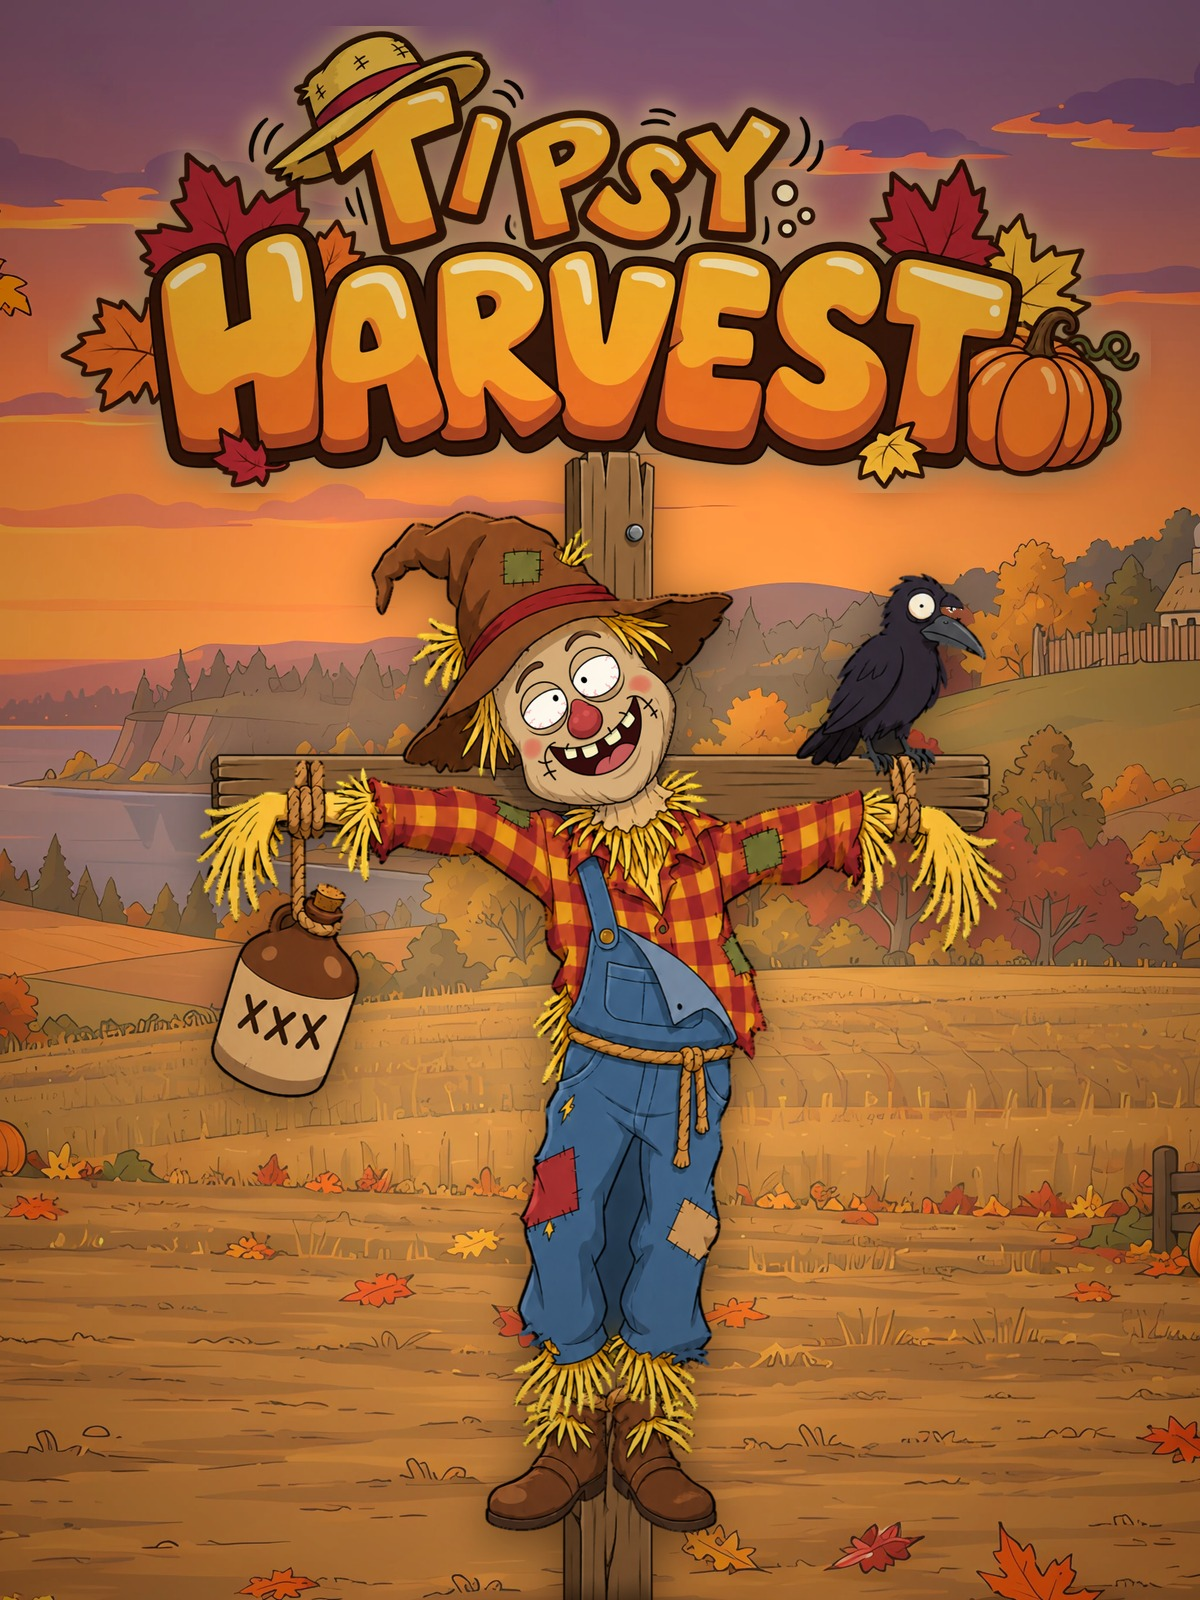
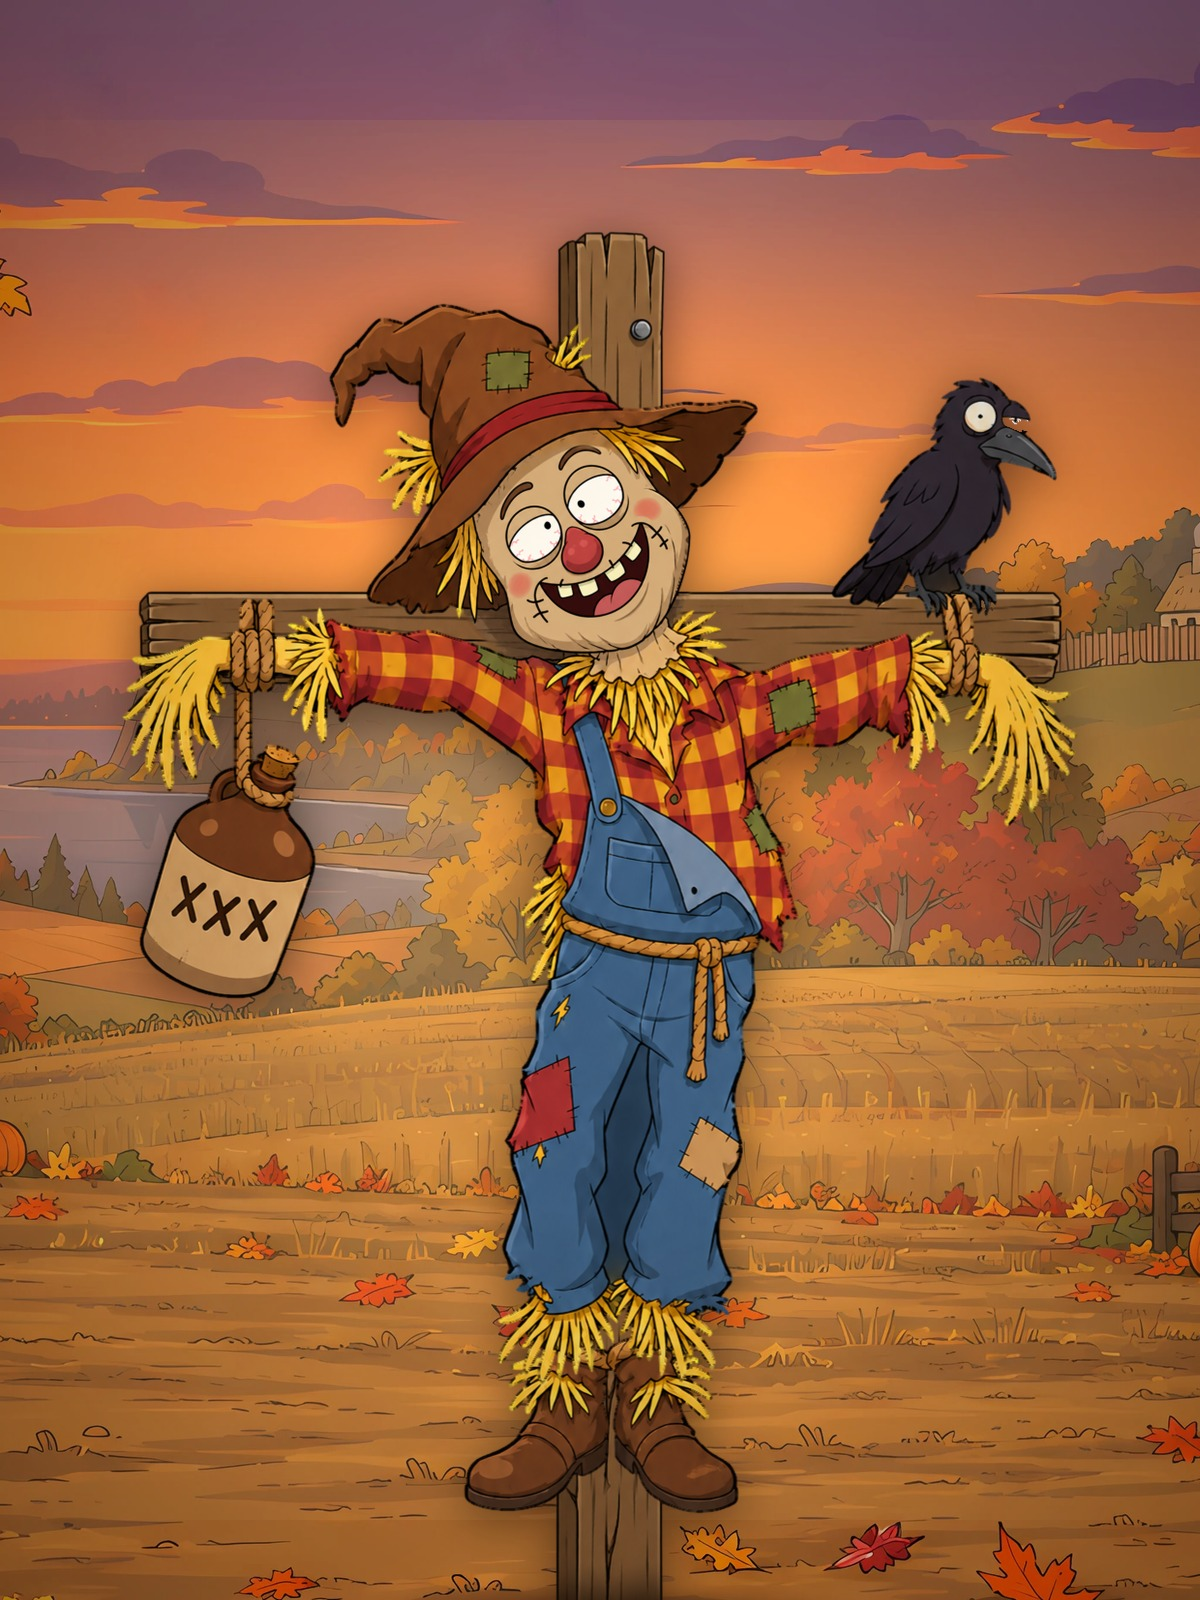
Lobby tile 3:4: scarecrow only, no title

diff --git a/tools/fall/make_media.py b/tools/fall/make_media.py
@@ -126,14 +126,12 @@ def cover():
 
 
 def tile():
-    """The scarecrow and the title only - no symbols (owner, 2026-11-08)."""
+    """The scarecrow only - no title, no symbols (owner, 2026-11-08)."""
     W, H = 1200, 1600
     im = background(W, H, focus_x=.43, focus_y=.42, zoom=1.15)
-    warm_glow(im, 600, 980, 660, .45)
-    word, glow = wordmark(1080)
-    im.alpha_composite(glow, (round(600 - glow.width / 2), round(260 - glow.height / 2)))
-    place(im, word, 600 - word.width / 2, 260 - word.height / 2, blur=16, alpha=.45)
-    sc = fit_h(scarecrow("happy"), 1200)
+    warm_glow(im, 600, 820, 700, .45)
+    # no title on the tile (owner, 2026-11-08): just the scarecrow, big, in the field
+    sc = fit_h(scarecrow("happy"), 1420)
     place(im, sc, 600 - sc.width / 2, H - sc.height + 40, blur=22, alpha=.5)
     return vignette(im, .38)
 
